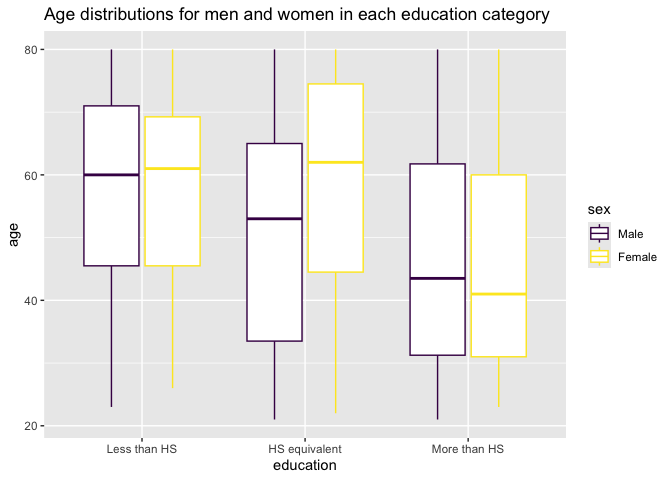
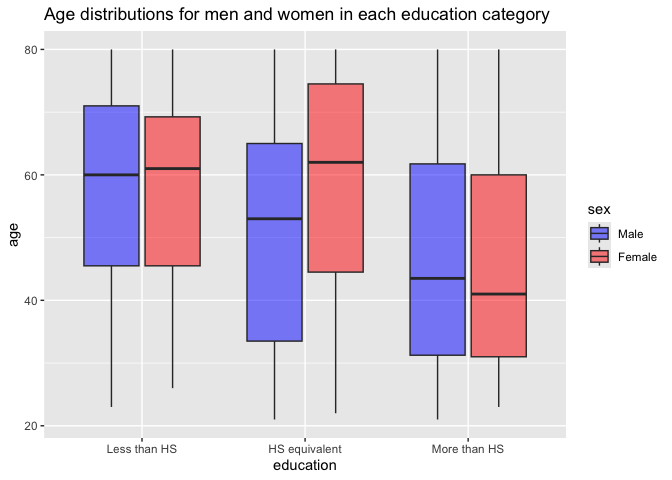
Finished plot of total activity in problem 2.

diff --git a/p8105_hw3_zc2822.md b/p8105_hw3_zc2822.md
@@ -51,8 +51,9 @@ education category.
 ``` r
 demo_df |> 
   group_by(education, sex) |> 
-  ggplot(aes(x = education, y = age, color = sex)) +
-  geom_boxplot() +
+  ggplot(aes(x = education, y = age, fill = sex)) +
+  geom_boxplot(alpha = .5) +
+  scale_fill_manual(values = c("Male" = "blue", "Female" = "red")) +
   labs(title = "Age distributions for men and women in each education category")
 ```
 
@@ -75,3 +76,41 @@ spread and the median, male tends to be younger than female.
 For the more than high school education category, the age spread of male
 and female does not differ much, but the female group has a smaller
 median.
+
+Plot total activities against age.
+
+``` r
+mims_df |> 
+  rowwise() |> 
+  mutate(total_activity = sum(c_across(starts_with("min")), na.rm = TRUE)) |> 
+  ungroup() |> 
+  ggplot(aes(x = age, y = total_activity, col = sex)) +
+  geom_point(alpha = .5) +
+  scale_color_manual(values = c("Male" = "blue", "Female" = "red")) +
+  facet_wrap(~ education) + 
+  geom_smooth(se = FALSE) + 
+  labs(title = "Total activity vs age by education level and sex",
+       x = "Age", 
+       y = "Total Activity")
+```
+
+![](p8105_hw3_zc2822_files/figure-gfm/unnamed-chunk-4-1.png)<!-- -->
+
+Comment:
+
+Total activity tends to decrease with age in all education groups, but
+the patterns are different. Female generally have higher total activity
+compared to male in more than or equivalent to high school education
+groups.
+
+For the less than high school group, female shows an overall decreasing
+trend of total activity as age increases, while male first decreases in
+total activity, then rises to a peak at around age 60, and then
+decreases sharply.
+
+For the high school equivalent group, female has two peaks of total
+activity, one at age 40, and the other at age 70. Male’s total activity
+increases before age 40, and then decreases.
+
+For the more than high school group, both sexes show an flat trend of
+total activity until around age 50, then decrease sharply.
